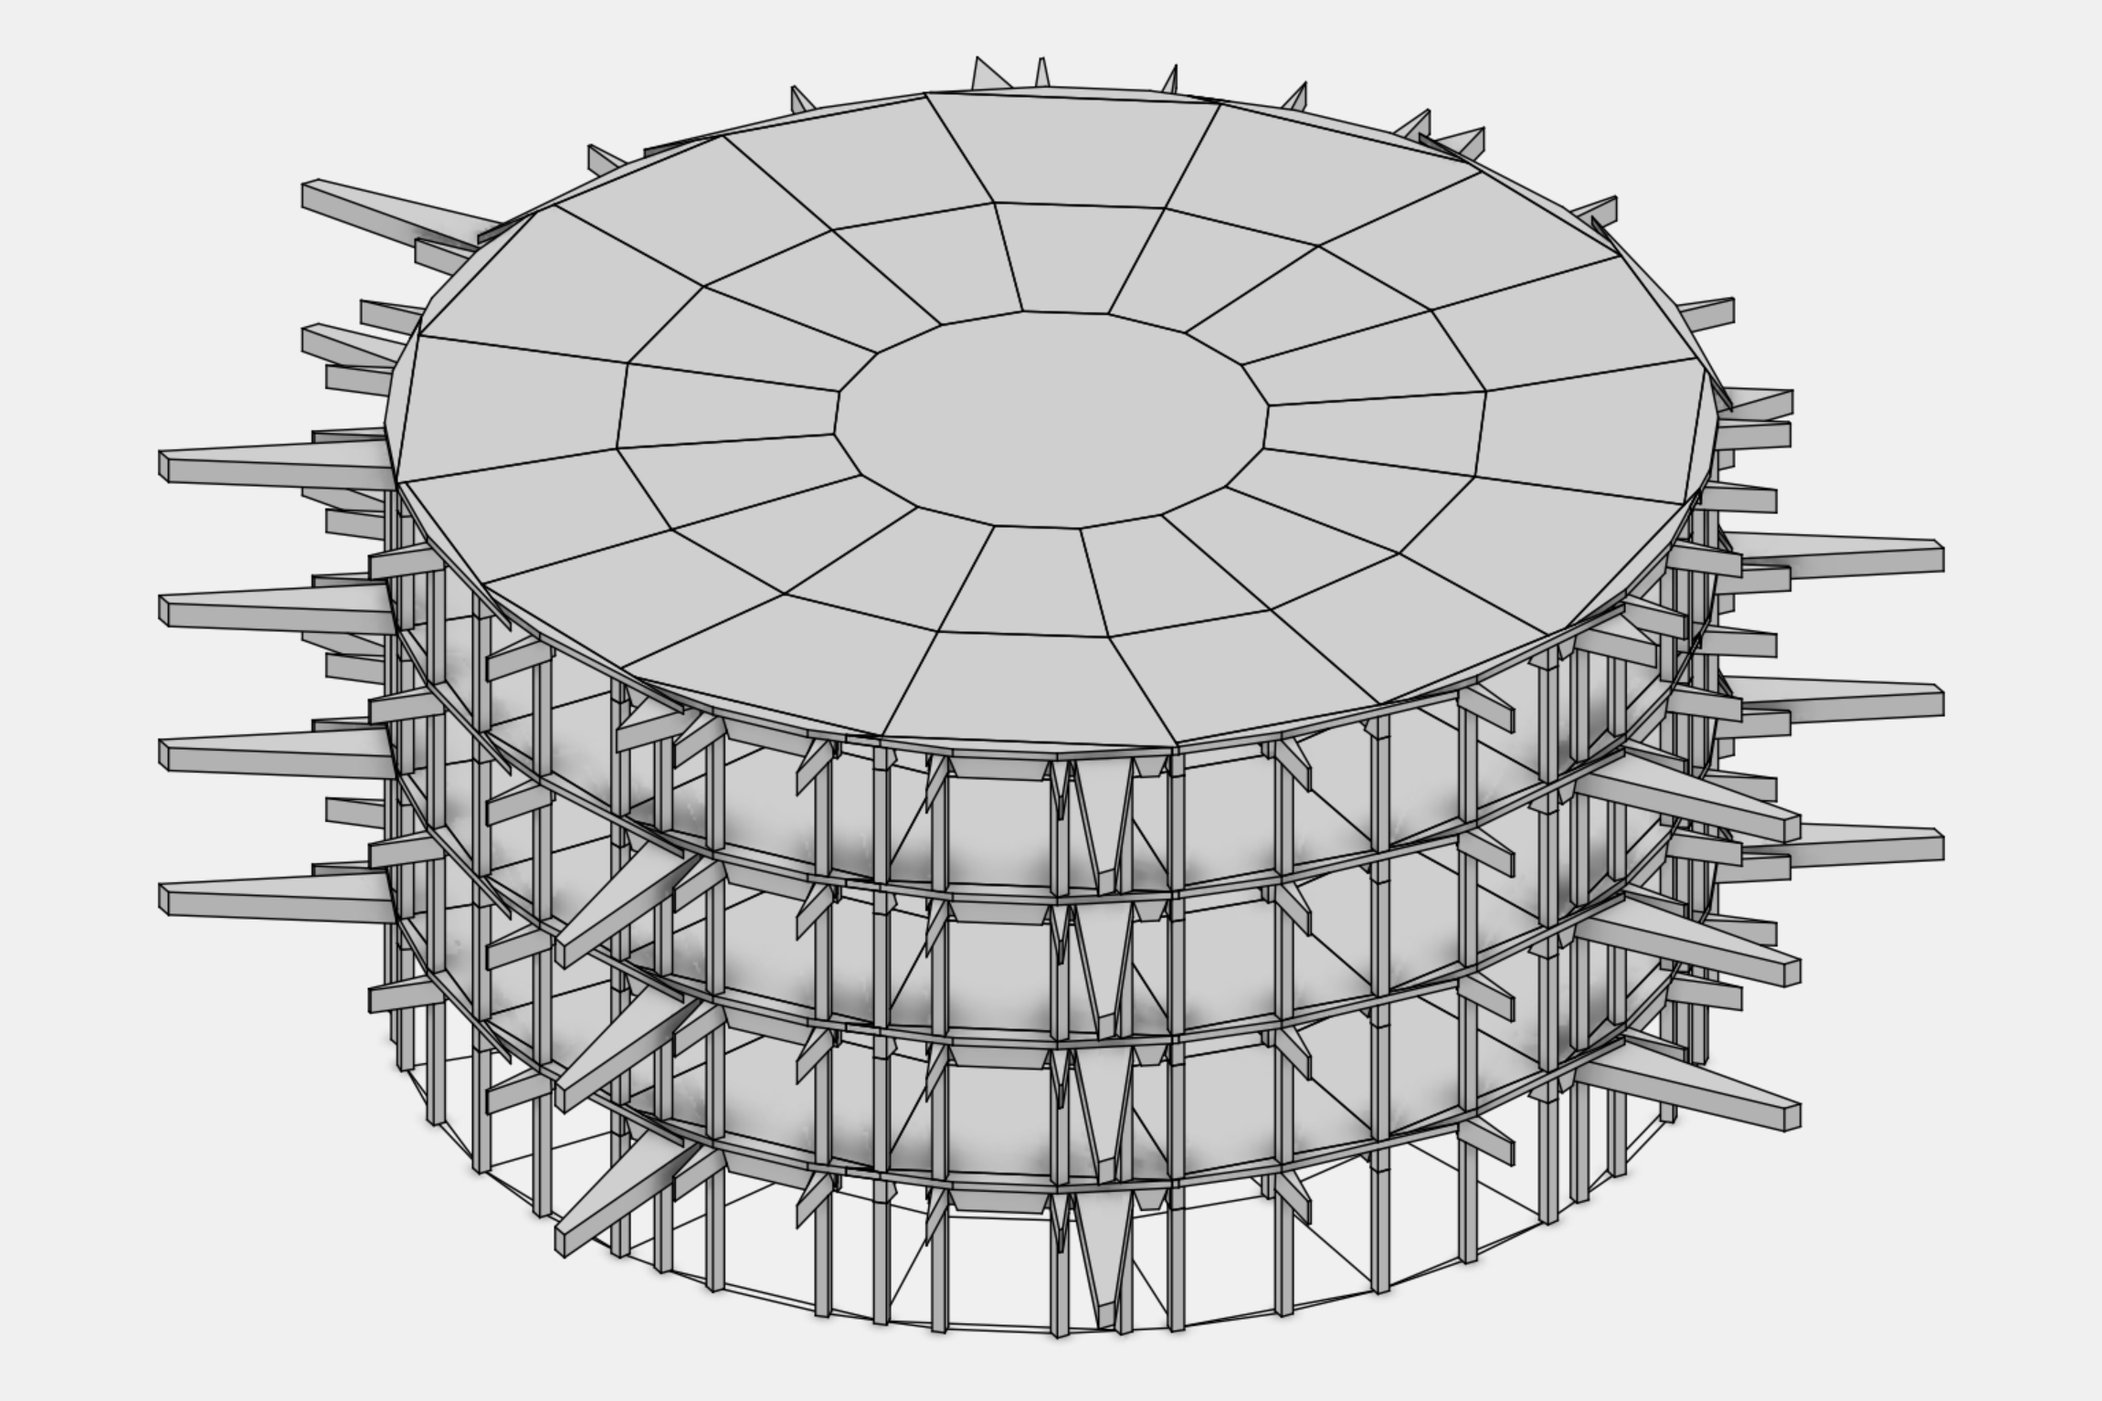
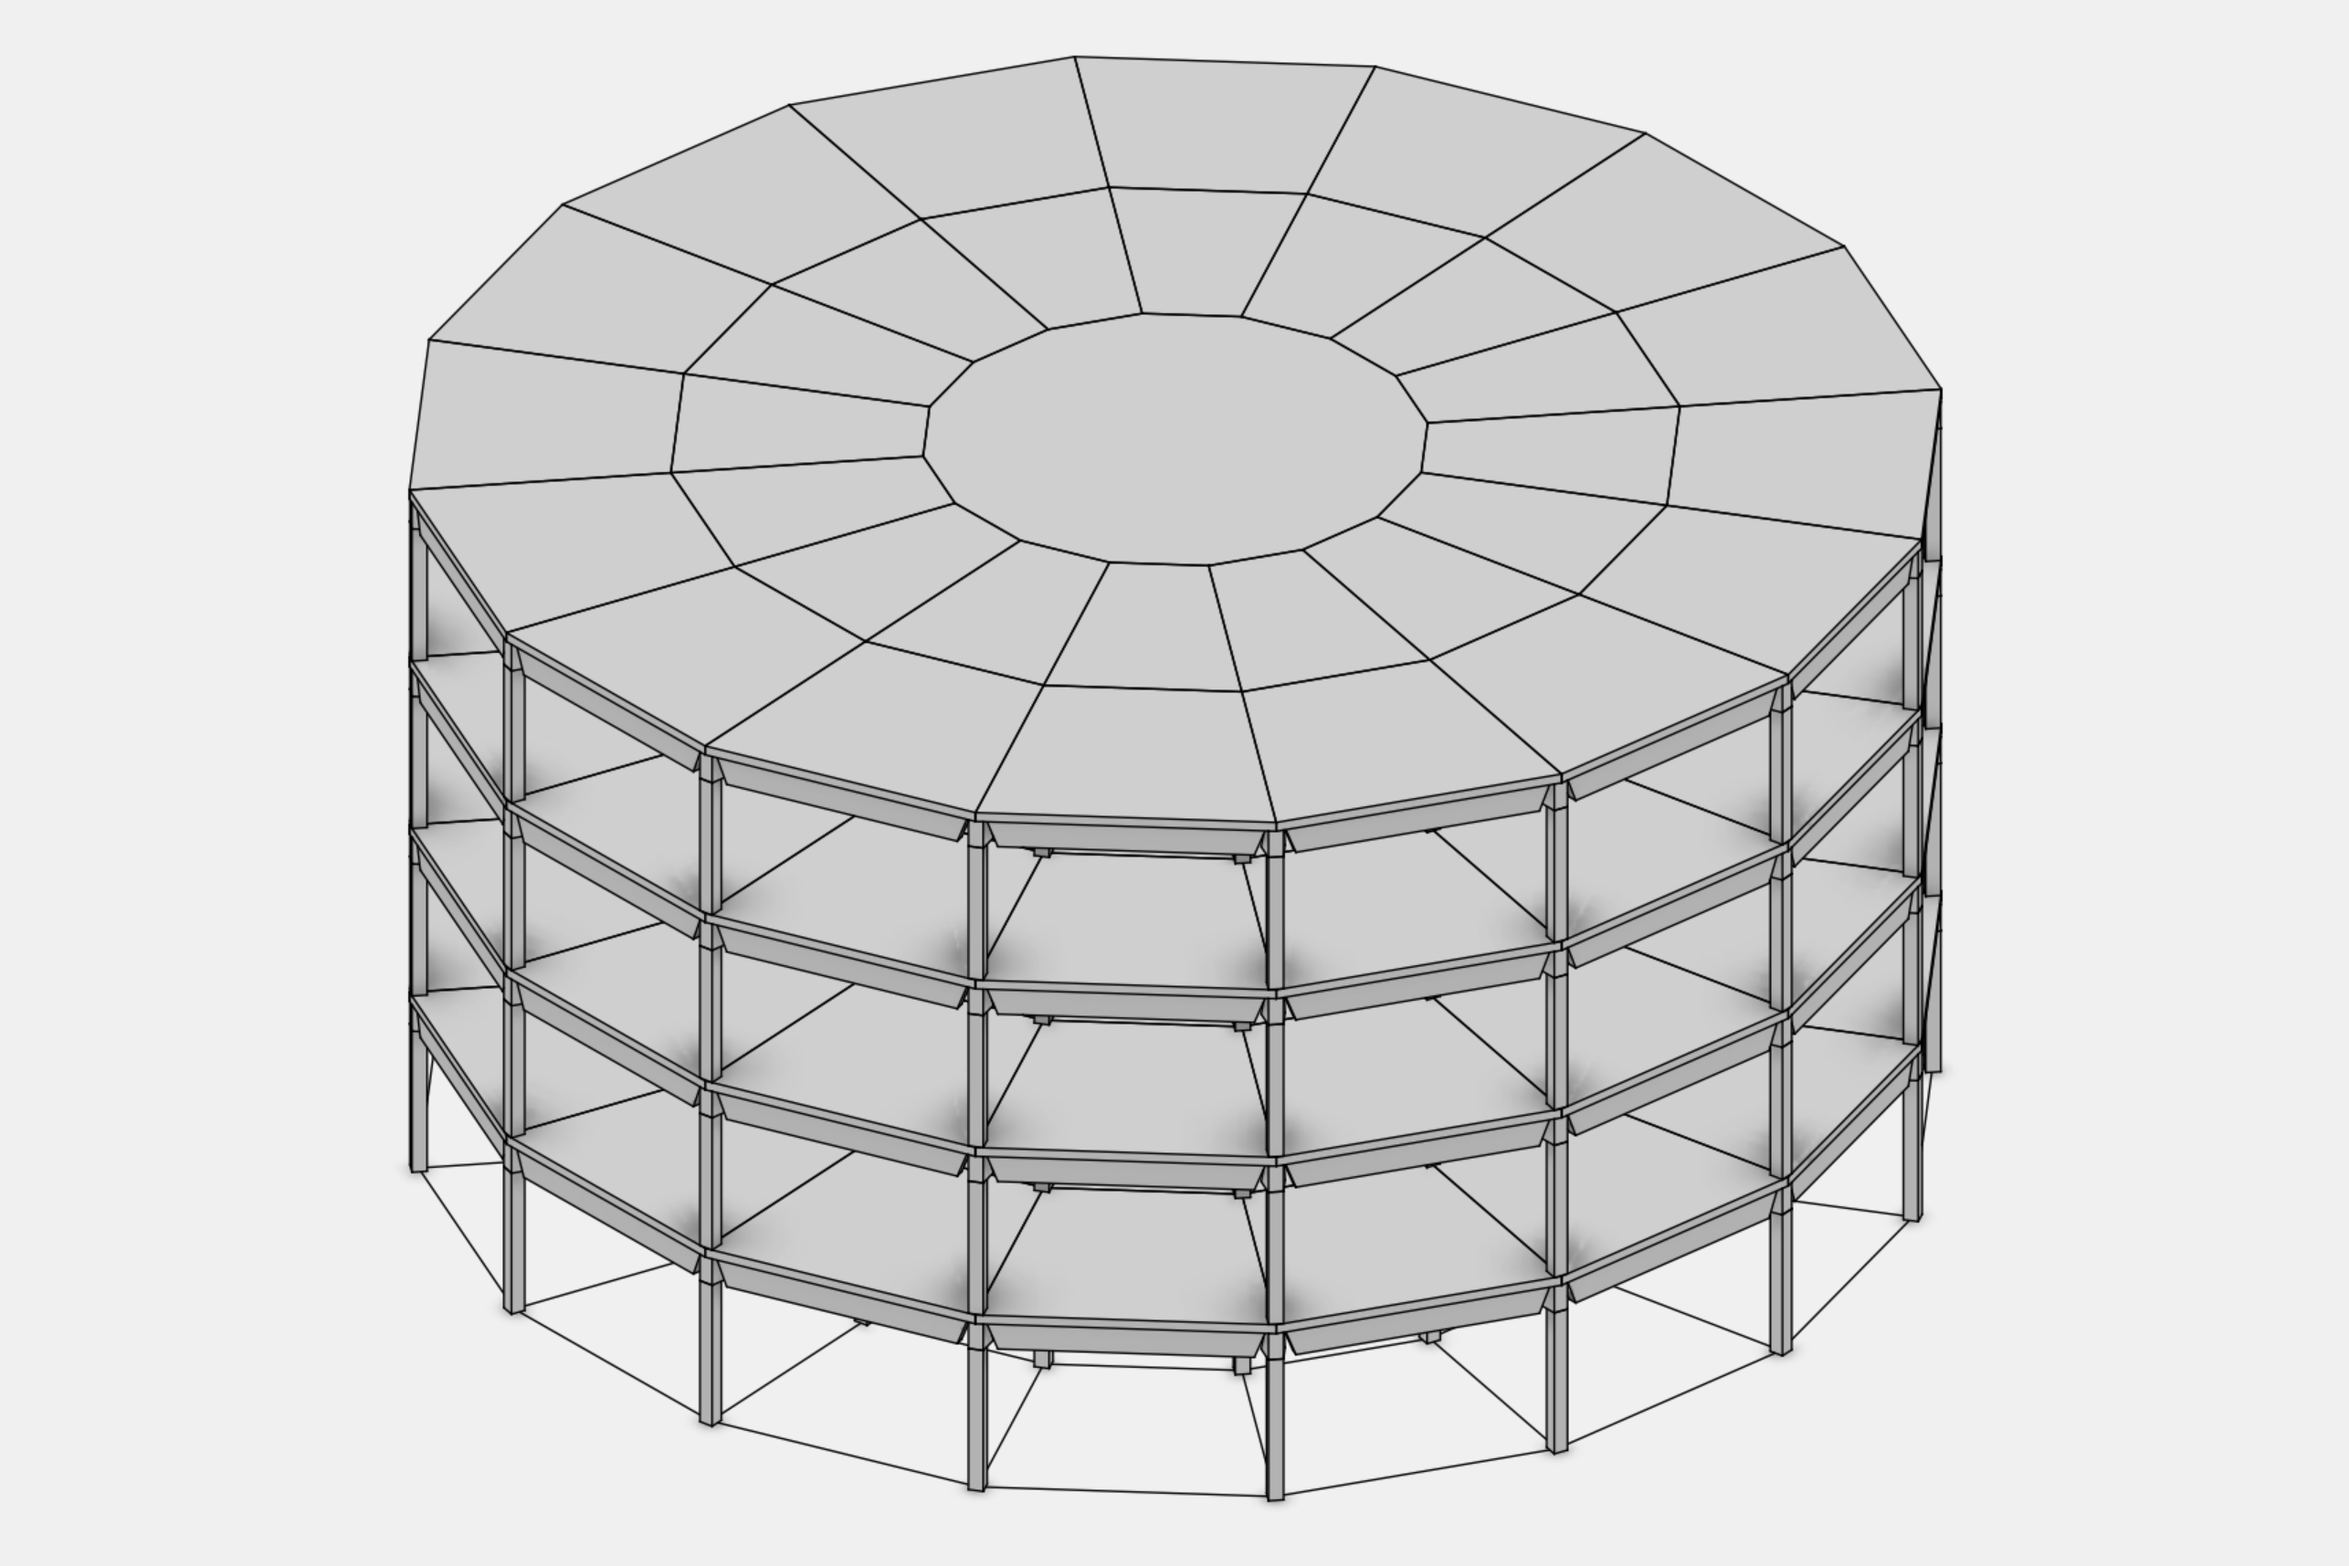
floor_9 turns the support with its column; grid_2 curved massing a true 16-sided prism

Changed region(s): [[0.0617, 0.0306, 0.9257, 0.9804]]

diff --git a/examples/templates_grid_2_solid.cpp b/examples/templates_grid_2_solid.cpp
@@ -28,6 +28,7 @@ const Polyline PODIUM = Polyline::rectangle(Point(0.0, 0.0, 0.0), X, Y, 40000.0,
 const Polyline TOWER = Polyline::rectangle(Point(10000.0, 5000.0, 8000.0), X, Y, 20000.0, 20000.0);
 const Polyline OUTER = Polyline::rectangle(Point(0.0, 0.0, 0.0), X, Y, 36000.0, 36000.0);
 const Polyline ATRIUM = Polyline::rectangle(Point(12000.0, 12000.0, 0.0), X, Y, 12000.0, 12000.0);
+const Polyline ROUND = Polyline::from_sides(16, 15000.0, true);
 const bool INSTANCES = false;
 
 /// A closed shell through the faces of several open lofts and their caps.
@@ -91,7 +92,7 @@ const std::vector<Case> CASES = {
      {0.0, 4000.0, 8000.0, 12000.0, 16000.0, 20000.0},
      wood_grid::Framing{.system = 2, .span = 0, .spacing = 3000.0, .node = 2}},
     {"curved",
-     BRep::create_cylinder(15000.0, 15200.0).mesh(),
+     Mesh::loft({ROUND}, {ROUND.transformed(Xform::translation(0.0, 0.0, 15200.0))}),
      wood_grid::Pattern::radial({5000.0, 10000.0, 15000.0}, 16),
      {0.0, 3800.0, 7600.0, 11400.0, 15200.0},
      wood_grid::Framing{.system = 2, .span = 0, .spacing = 2500.0, .node = 0}},

diff --git a/examples/templates_floor_9_orientation.cpp b/examples/templates_floor_9_orientation.cpp
@@ -19,11 +19,17 @@ int main() {
     WoodSession fabrication_session = floor.get_branch(column_name);
     const std::shared_ptr<Column> column =
         fabrication_session.get_element_by_name<Column>(column_name);
+    const std::shared_ptr<Support> support =
+        fabrication_session.get_element_by_name<Support>("support_0");
 
     const Plane from = Plane(column->section.get_point(0), Vector::x_axis(), Vector::y_axis());
     const Plane on_ground = Plane(Point(0.0, 0.0, 0.0), Vector::y_axis(), Vector::z_axis());
 
-    fabrication_session.set_xform(column->guid(), Xform::plane_to_plane(from, on_ground));
+    const Xform flat = Xform::plane_to_plane(from, on_ground);
+
+    // the column carries its blocks, cuts and seat under its own node; the support stands beside it in the branch
+    fabrication_session.set_xform(column->guid(), flat);
+    fabrication_session.set_xform(support->guid(), flat);
 
     fabrication_session.pb_dump(pb_path("live"));
 
